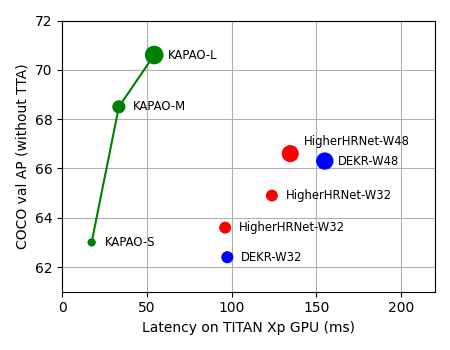
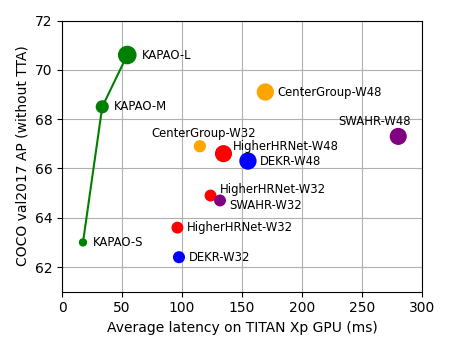
add comparisons against SWAHR and CenterGroup

diff --git a/README.md b/README.md
@@ -7,8 +7,11 @@ KAPAO simultaneously detects _pose objects_ and _keypoint objects_ and fuses the
 ![alt text](./res/kapao_inference.gif)
 
 When not using test-time augmentation (TTA), KAPAO is much faster and more accurate than 
-previous single-stage methods like [DEKR](https://github.com/HRNet/DEKR) 
-and [HigherHRNet](https://github.com/HRNet/HigherHRNet-Human-Pose-Estimation):
+previous single-stage methods like 
+[DEKR](https://github.com/HRNet/DEKR), 
+[HigherHRNet](https://github.com/HRNet/HigherHRNet-Human-Pose-Estimation),
+[HigherHRNet + SWAHR](https://github.com/greatlog/SWAHR-HumanPose), and
+[CenterGroup](https://github.com/dvl-tum/center-group):
 
 ![alt text](./res/accuracy_latency.png)
 
